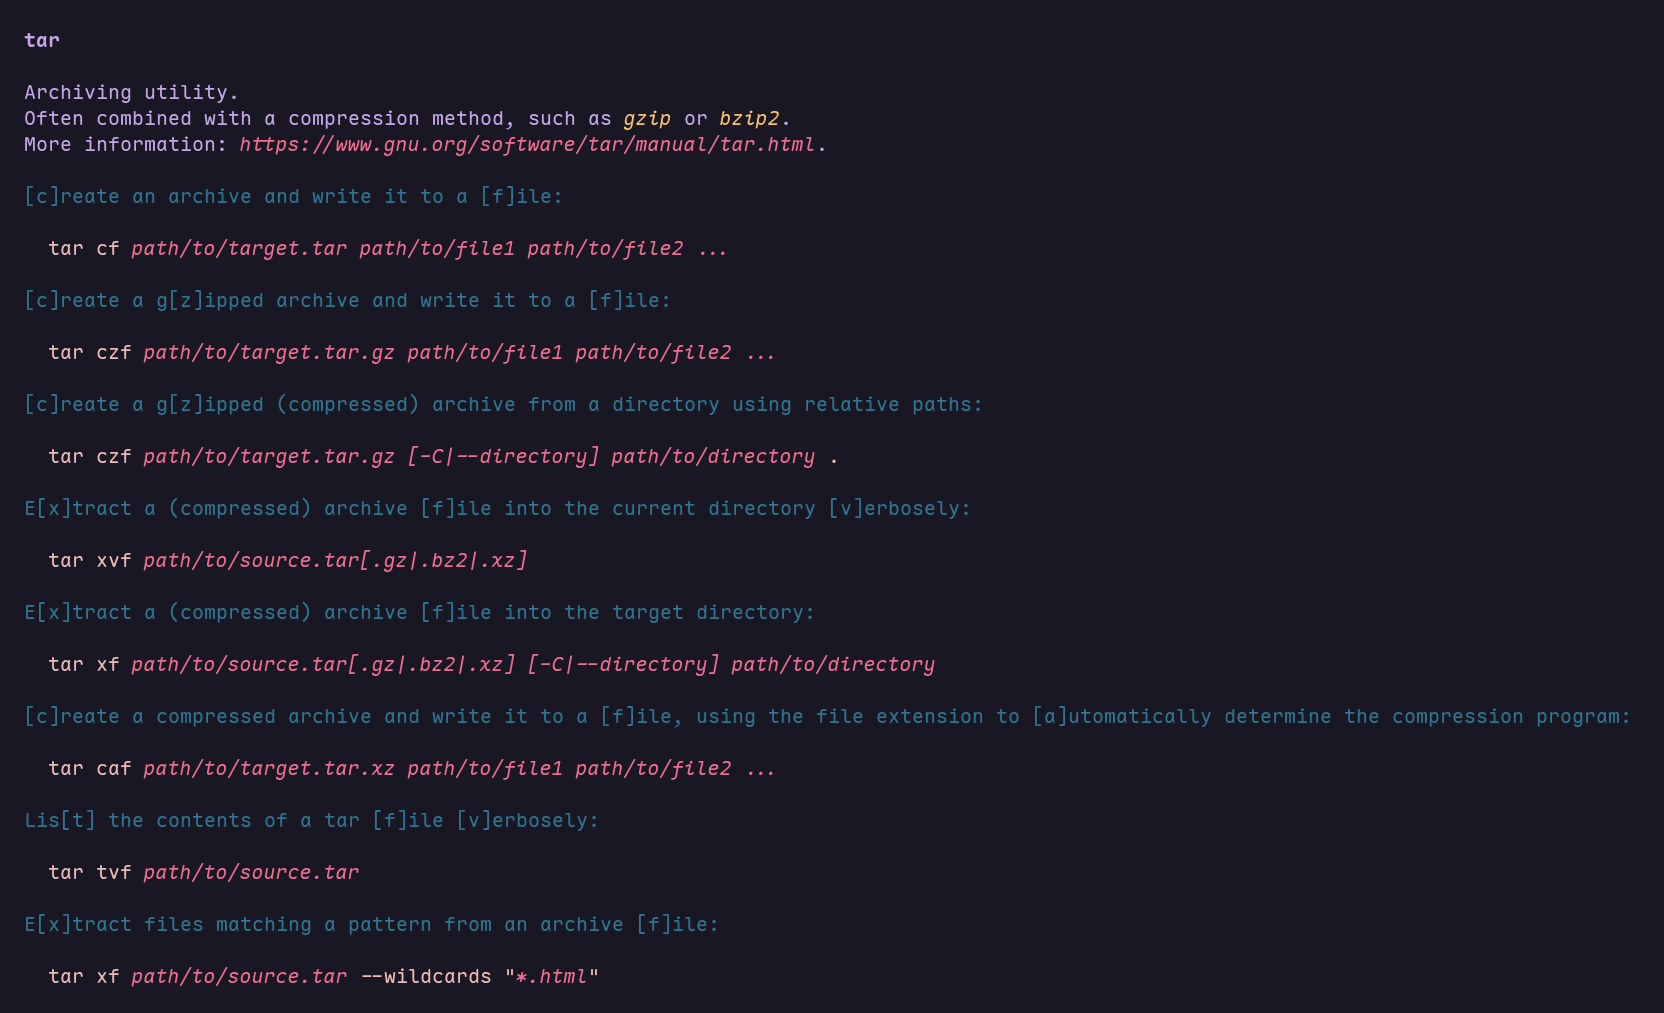
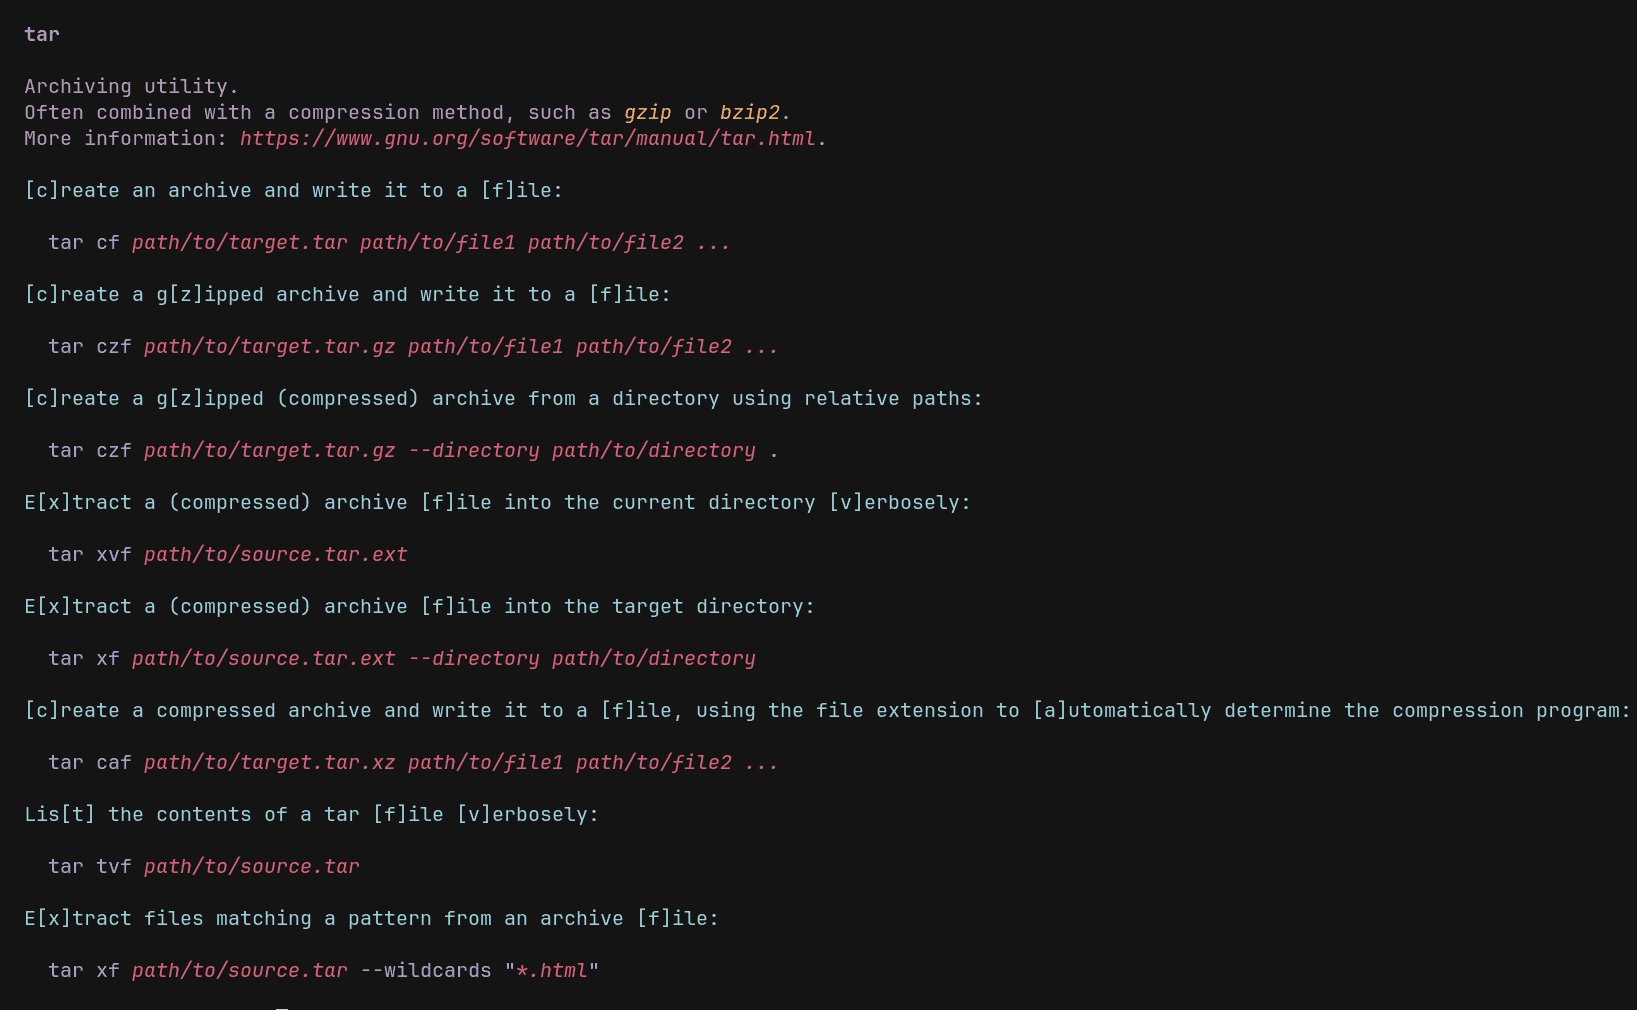
chore: Edit README

diff --git a/README.md b/README.md
@@ -14,7 +14,7 @@ A [tldr](https://github.com/tldr-pages/tlgc) client written in Go.
 </p>
 
 <p align="center">
-<img src="tldr.png" alt="tlgc — a tldr client written in Go" width="600">
+<img src="tldr.png" alt="tlgc — a tldr client written in Go" width="100%">
 </p>
 </div>
 
@@ -331,3 +331,12 @@ Modifiers:
 | TLDR110 | Command example should not be empty.                                                         |
 | TLDR111 | File name should not contain any Windows-forbidden character.                                |
 | TLDR112 | Terms `stdin`, `stdout`, `stderr`, and `regex` should be lowercase and wrapped in backticks. |
+
+## Acknowledgements
+
+`tlgc` would not exist if not for the following projects and the people behind those projects:
+
+- [tldr-pages](https://github.com/tldr-pages)
+- [tldr-lint](https://github.com/tldr-pages/tldr-lint)
+- [tlrc](https://github.com/tldr-pages/tlrc)
+- [tldr-python-client](https://github.com/tldr-pages/tldr-python-client)
